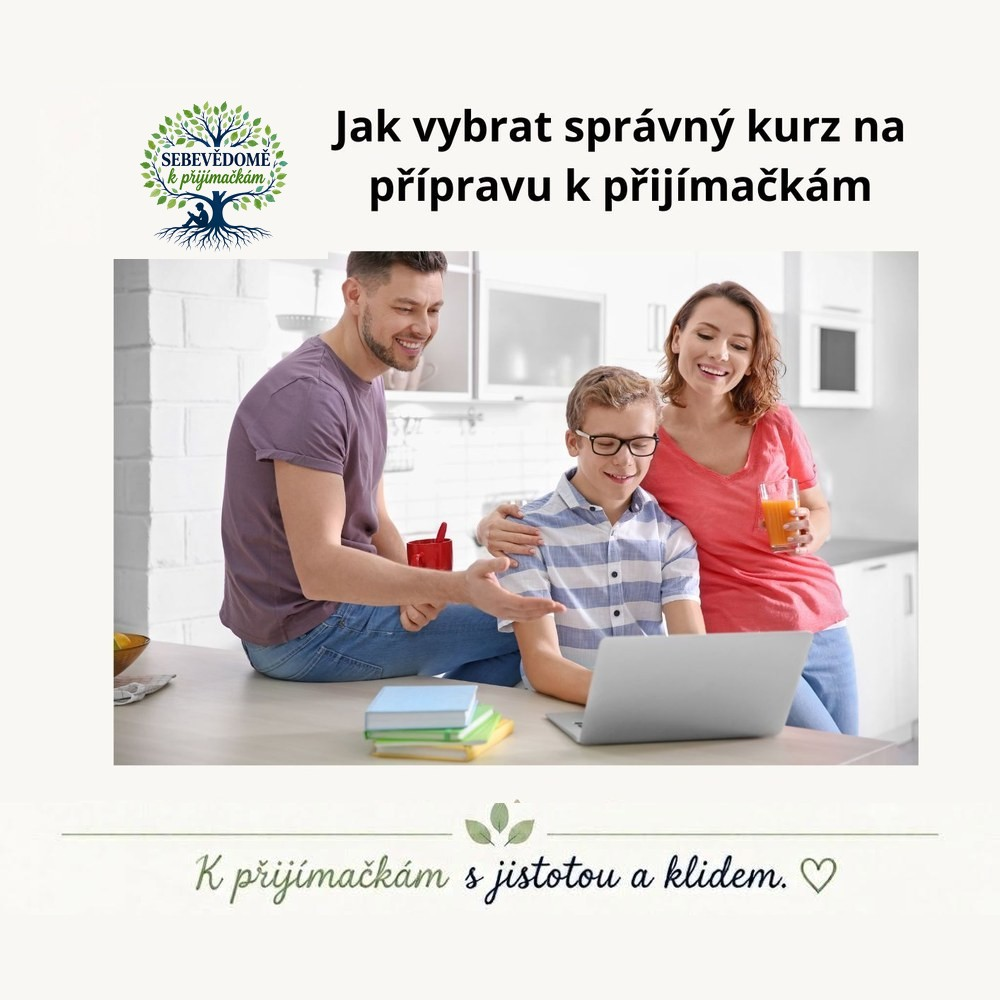
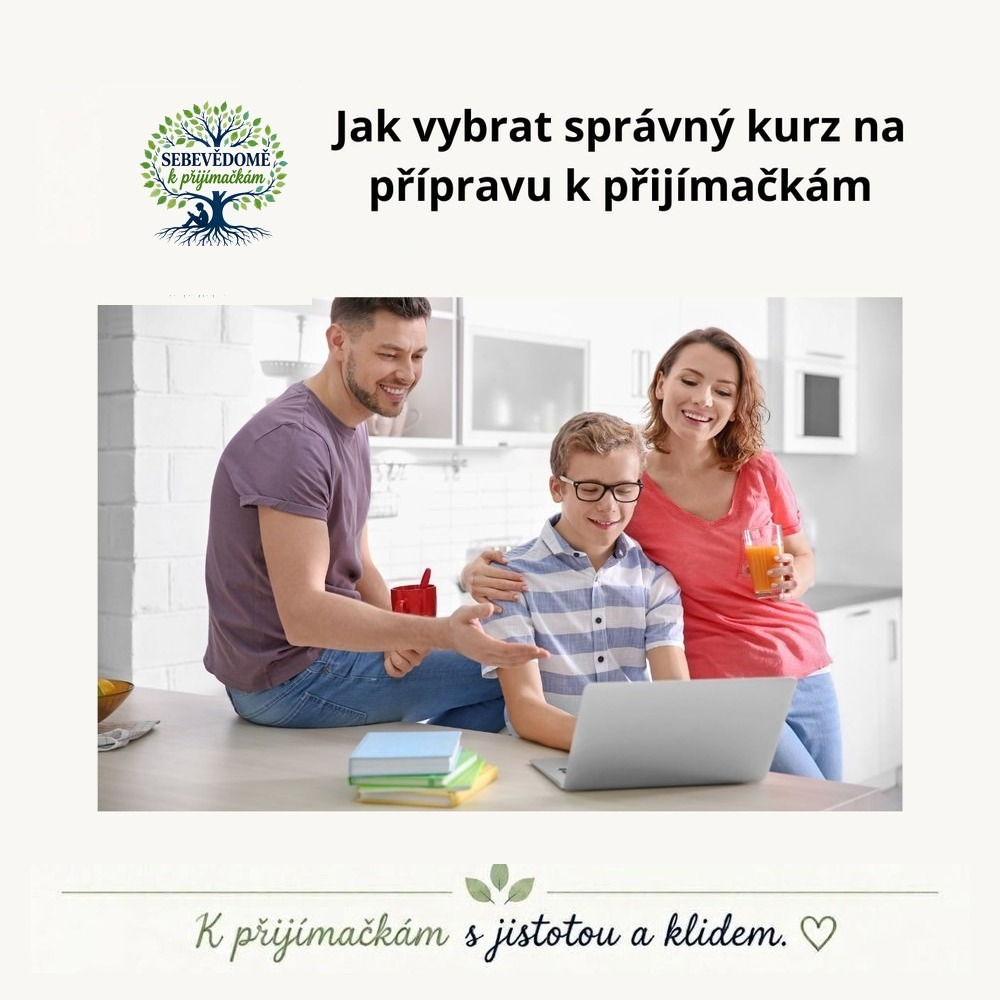
Grafika článku 'Jak vybrat kurz': moto zarovnat dolů, fotku vycentrovat, vrch beze změny; cache ?v=3

diff --git a/blog/jak-vybrat-spravny-kurz-na-prijimacky.html b/blog/jak-vybrat-spravny-kurz-na-prijimacky.html
@@ -43,7 +43,7 @@
     <div class="container blog-post-container">
       <a href="../blog.html" class="blog-back-link">← Zpět na blog</a>
       <span class="blog-index-date">5. července 2026</span>
-      <img src="../assets/images/jak-vybrat-kurz.jpg?v=2" alt="Jak vybrat správný kurz na přípravu k přijímačkám" class="blog-post-hero">
+      <img src="../assets/images/jak-vybrat-kurz.jpg?v=3" alt="Jak vybrat správný kurz na přípravu k přijímačkám" class="blog-post-hero">
 
       <p>Nabídka přípravných kurzů je dnes obrovská a téměř každý slibuje úspěch. Jak se v tom má rodič vyznat a poznat opravdu kvalitní přípravu? Následujících pět kritérií vám pomůže odlišit skutečně dobrý kurz od prázdného slibu – a snadno si podle nich ověříte i to, jestli jsme pro vaše dítě ta správná volba právě my.</p>
 

diff --git a/index.html b/index.html
@@ -273,7 +273,7 @@
             <a href="blog/matematika-je-nas-kamarad.html">Matematika je náš kamarád</a>
           </li>
           <li>
-            <img src="assets/images/jak-vybrat-kurz.jpg?v=2" alt="" class="blog-thumb">
+            <img src="assets/images/jak-vybrat-kurz.jpg?v=3" alt="" class="blog-thumb">
             <a href="blog/jak-vybrat-spravny-kurz-na-prijimacky.html">Jak vybrat správný kurz na přípravu k přijímačkám</a>
           </li>
         </ul>

diff --git a/blog.html b/blog.html
@@ -64,7 +64,7 @@
         </a>
 
         <a href="blog/jak-vybrat-spravny-kurz-na-prijimacky.html" class="blog-index-card">
-          <img src="assets/images/jak-vybrat-kurz.jpg?v=2" alt="">
+          <img src="assets/images/jak-vybrat-kurz.jpg?v=3" alt="">
           <div class="blog-index-card-body">
             <span class="blog-index-date">5. července 2026</span>
             <h2>Jak vybrat správný kurz na přípravu k přijímačkám</h2>
